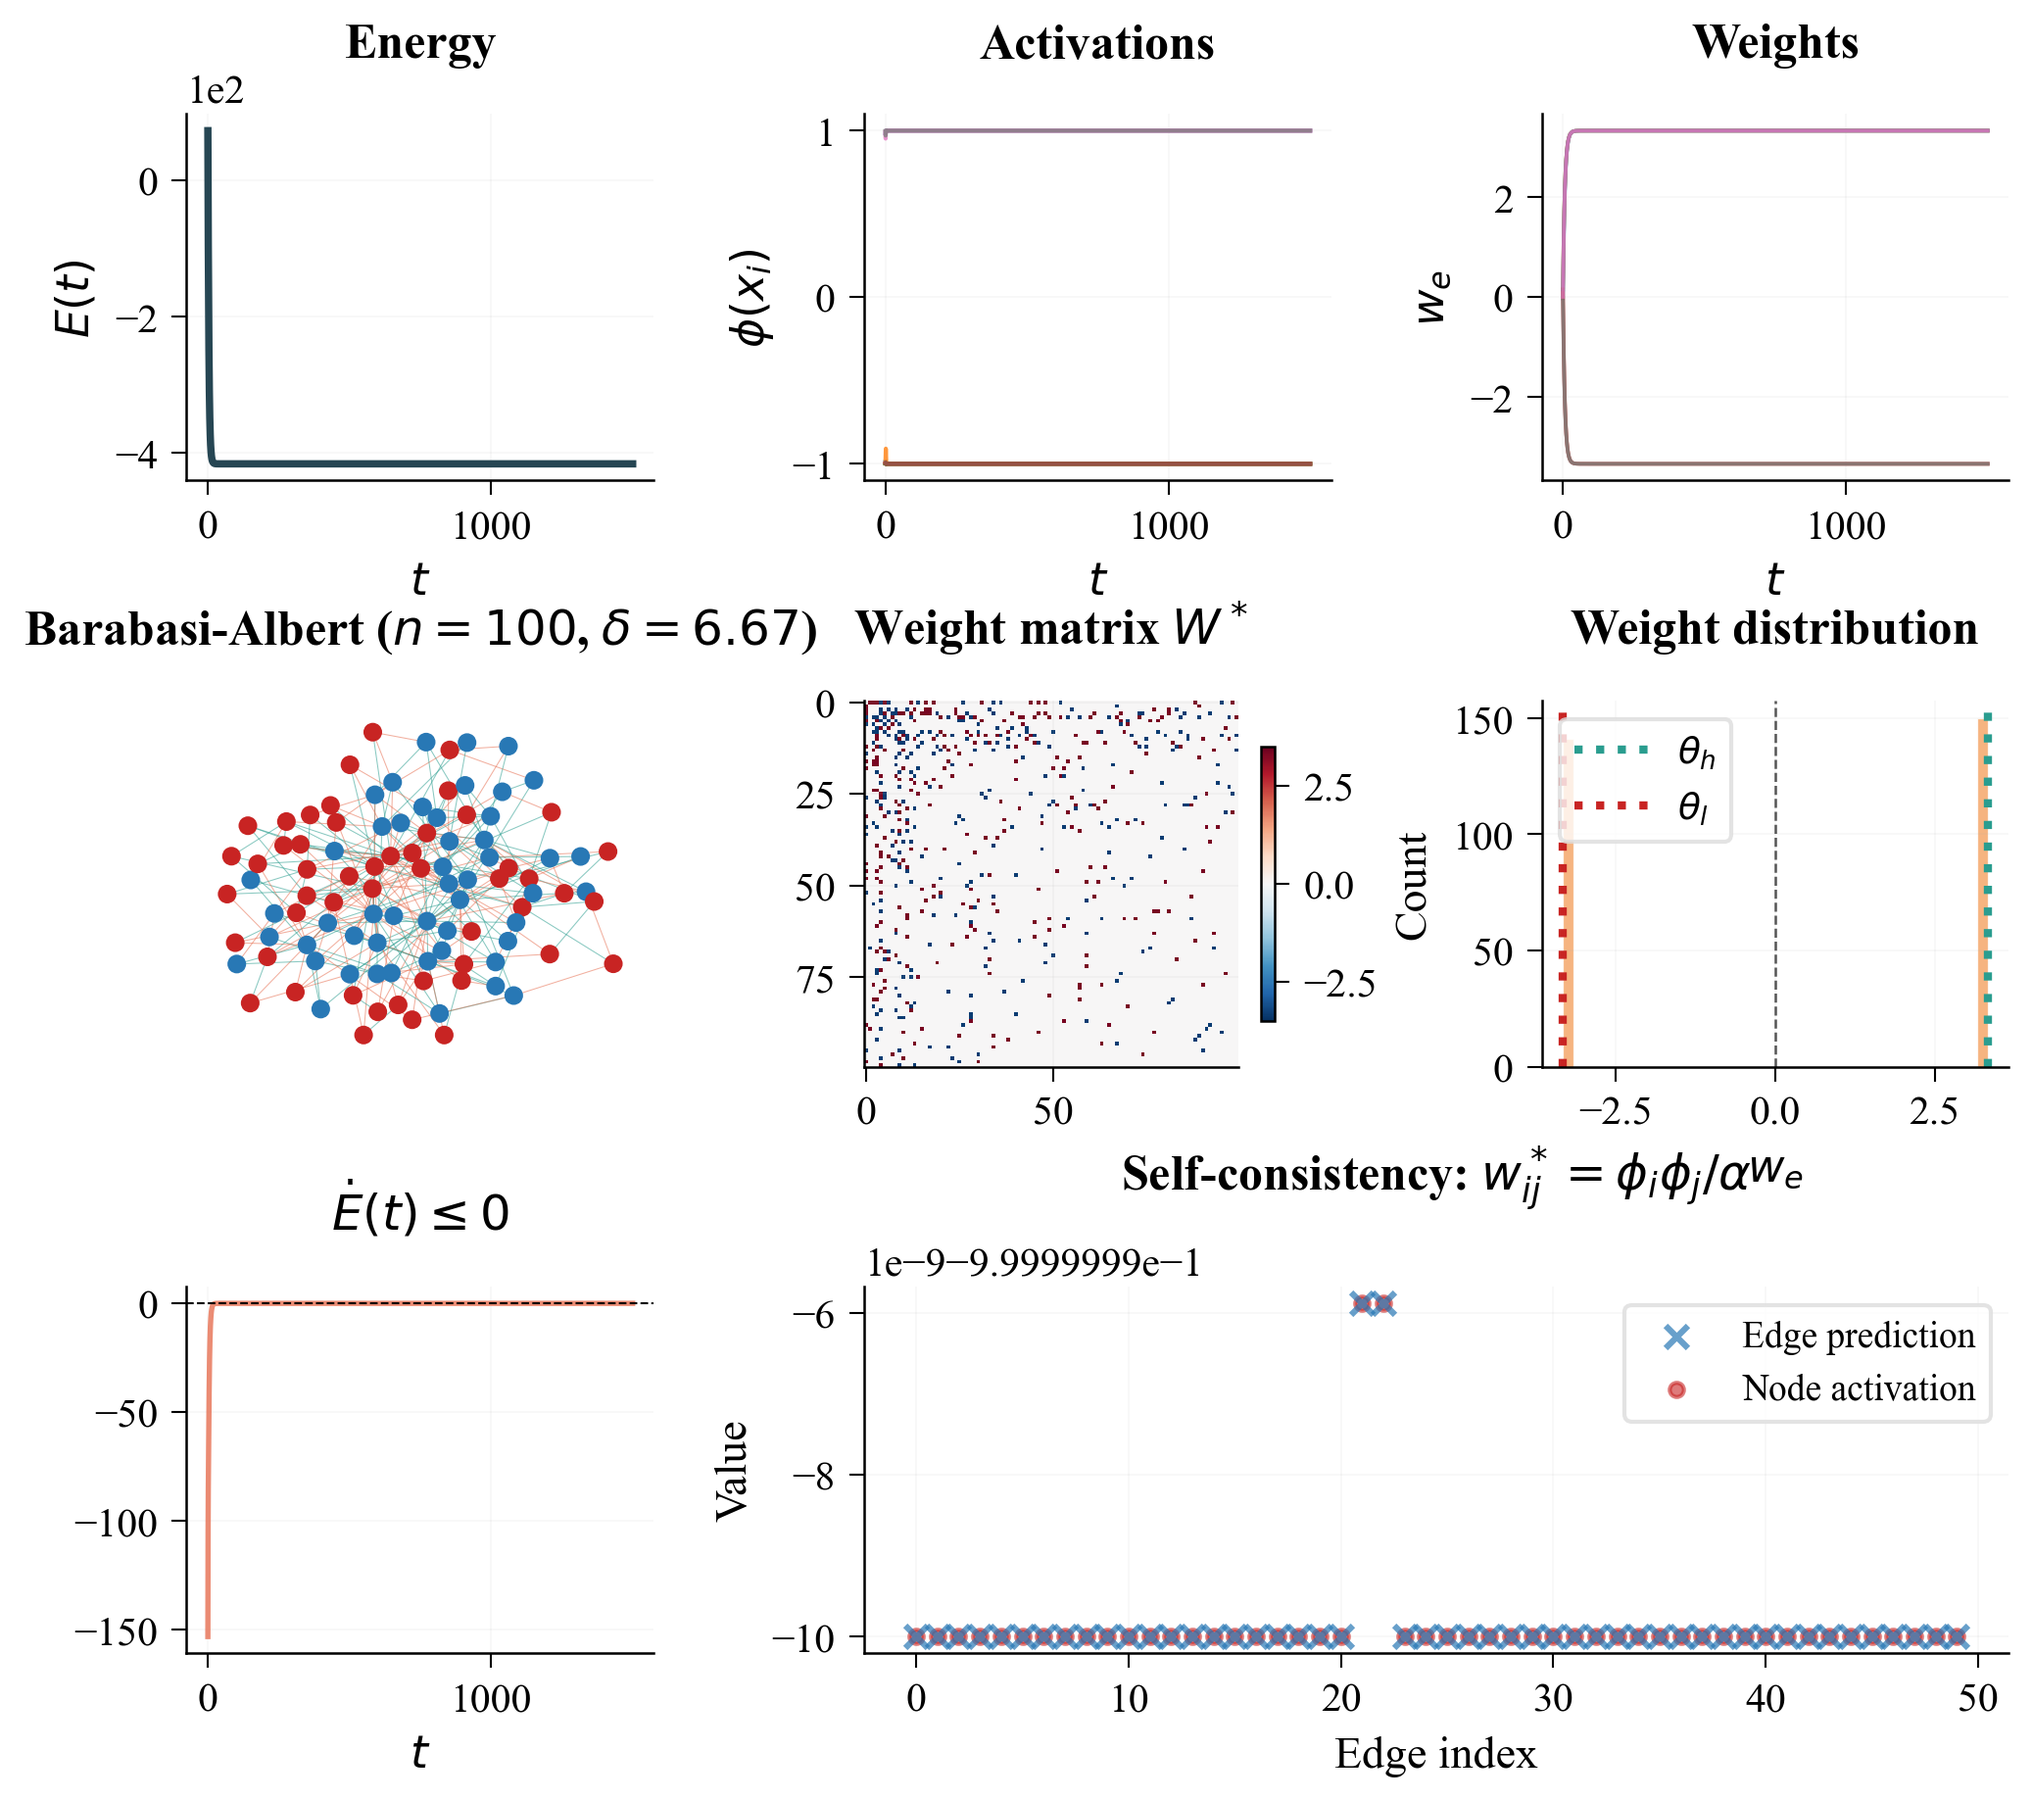
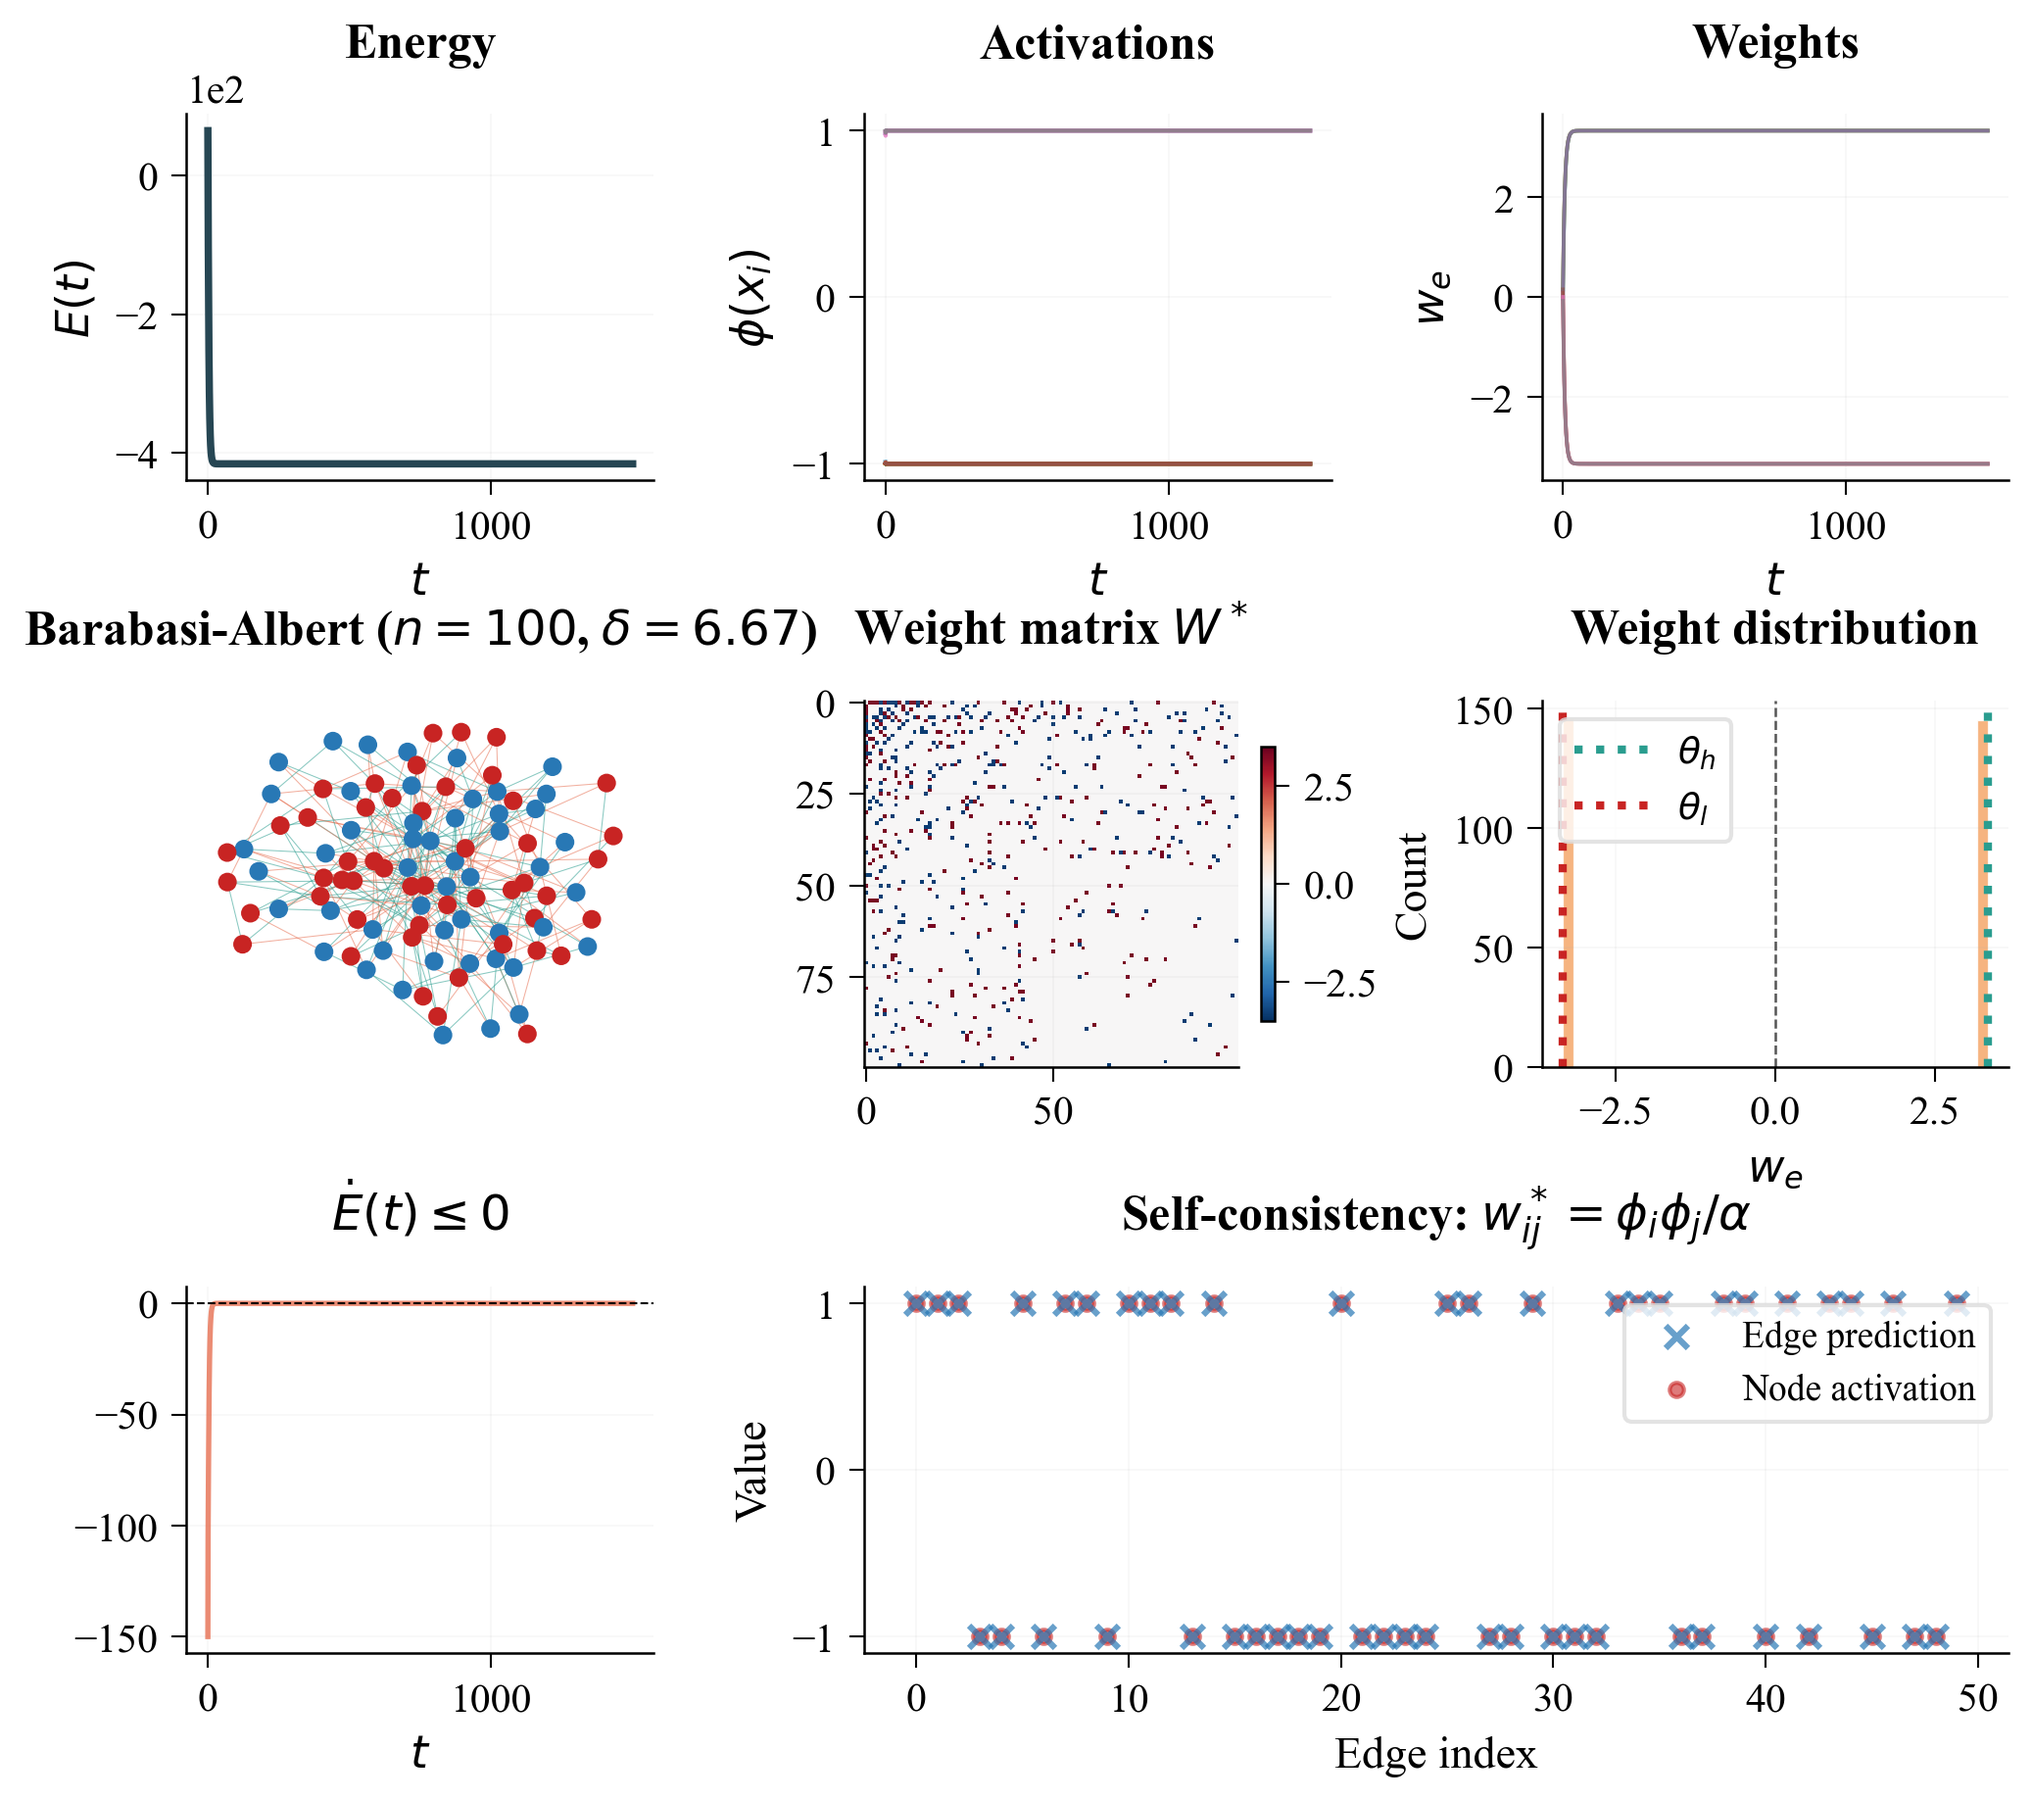
fix: n100_BA self-consistency random edge sampling, removes BA bias

diff --git a/simulations/python/dgng_pub_v2.py b/simulations/python/dgng_pub_v2.py
@@ -184,8 +184,12 @@ def pub_figure(T, X, W, edges_used, E_hist, ca, eps, alpha, name, topo_label):
 
     # (2,1)+(2,2) Self-consistency
     ax = fig.add_subplot(gs[2, 1:])
+    # Randomly sample edges for representative verification (avoid BA bias toward early hubs)
+    rng_sc = np.random.default_rng(42)
+    sc_indices = rng_sc.choice(len(edges_used), min(50, len(edges_used)), replace=False)
     pv, av = [], []
-    for idx, (i, j) in enumerate(edges_used[:min(50, len(edges_used))]):
+    for idx in sc_indices:
+        i, j = edges_used[idx]
         if abs(px_f[j]) > 1e-6:
             pv.append(alpha * w_f[idx] / px_f[j]); av.append(px_f[i])
     if pv:
